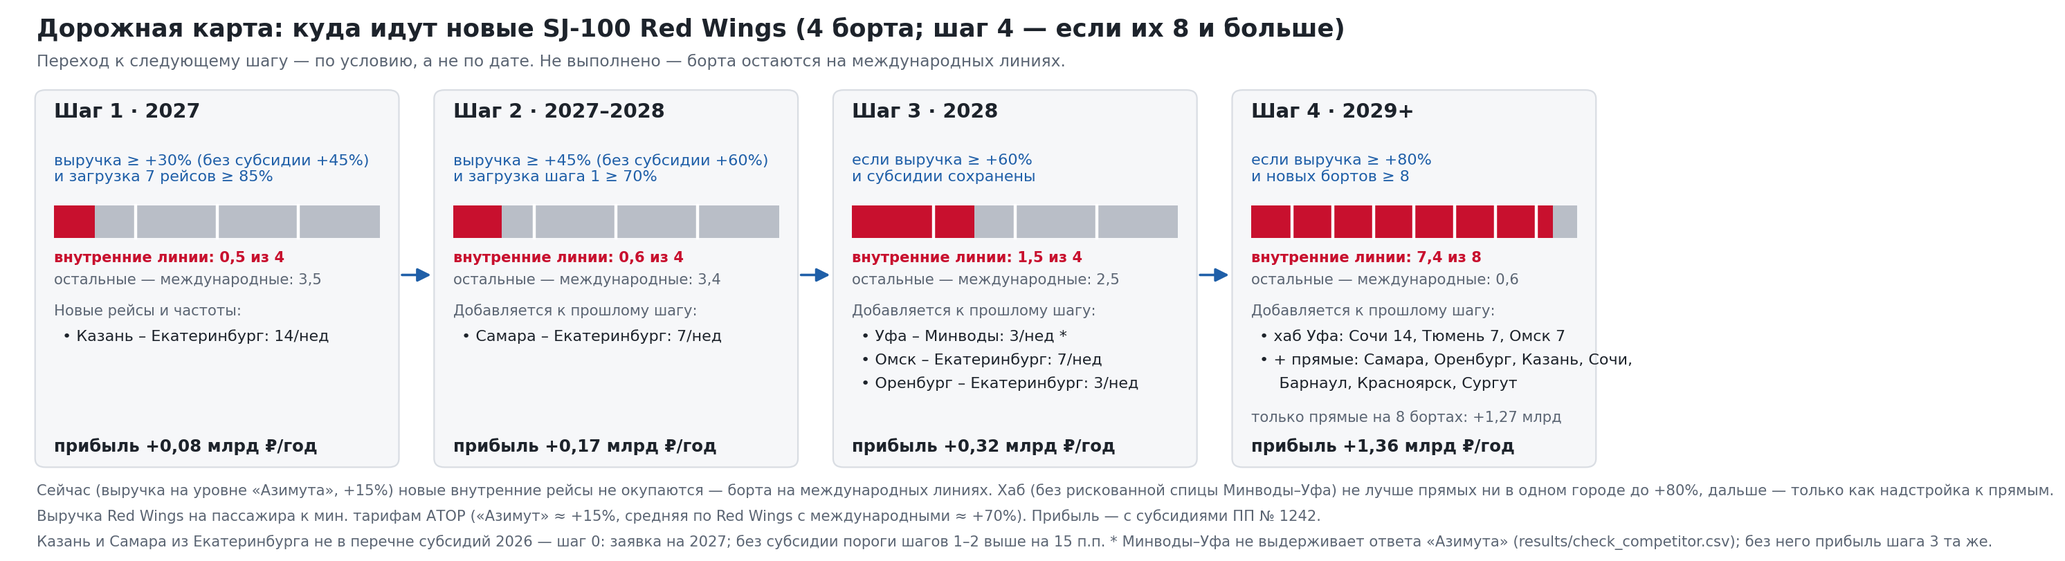
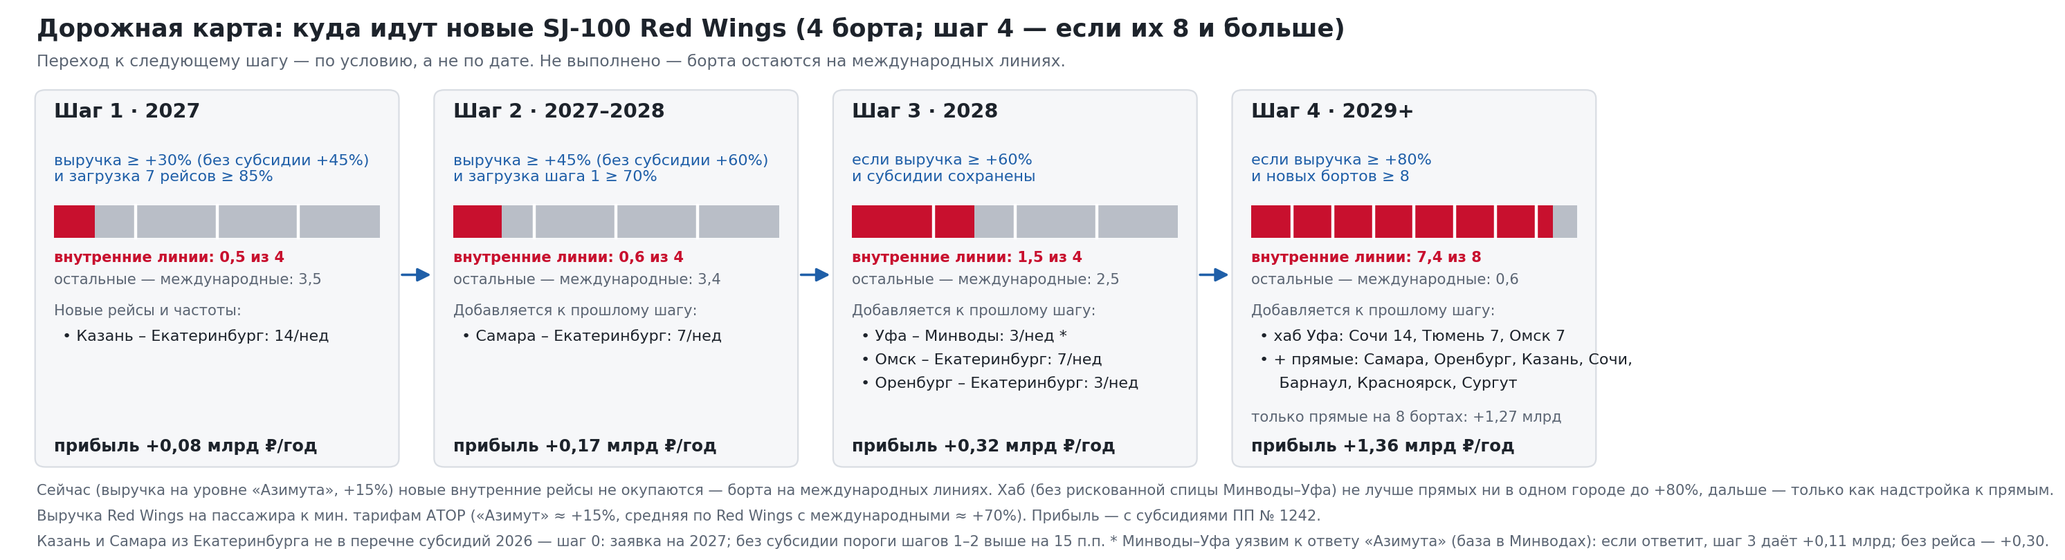
docs, calculator: Минводы–Уфа уязвим к ответу «Азимута» (цифры стресс-проверки вместо «не выдерживает»), пометка рейса и ML-фильтр в калькуляторе

diff --git a/docs/calculator.html b/docs/calculator.html
@@ -177,7 +177,7 @@ svg text{font-family:var(--font)}
   </div>
 
   <footer>
-    Расчёт: гравитационная модель спроса по табло 40 аэропортов (все перевозчики) + логит-модель выбора пассажира + жадный алгоритм размещения бортов по прибыли на блок-час; учтены загрузка, перегоны, база хаба (118 млн ₽/год), фактические закрытия аэропорта хаба, субсидии; спрос на парах без рейсов ×0,3 (по трём неудачным запускам 2021–2023). Тариф пар короче 550 км — 0,6 от формулы (по 55 реальным ценам на 43 маршрутах). Гибрид — хаб в Уфе плюс прямые рейсы из Екатеринбурга и других городов. Модель передаёт порядок величины (корреляция с фактом 0,51), поэтому сравнивайте варианты и пороги, а не точное число пассажиров. Контуры стран — Natural Earth. Код и данные: <a href="https://github.com/AndreyV105105105/Puhososy" target="_blank" rel="noopener">github.com/AndreyV105105105/Puhososy</a>.
+    Расчёт: гравитационная модель спроса по табло 40 аэропортов (все перевозчики) + логит-модель выбора пассажира + жадный алгоритм размещения бортов по прибыли на блок-час; учтены загрузка, перегоны, база хаба (118 млн ₽/год), фактические закрытия аэропорта хаба, субсидии; спрос на парах без рейсов ×0,3 (по трём неудачным запускам 2021–2023). Тариф пар короче 550 км — 0,6 от формулы (по 55 реальным ценам на 43 маршрутах). Гибрид — хаб в Уфе плюс прямые рейсы из Екатеринбурга и других городов. Новые пары без рейсов открываются, только если ML-модель жизнеспособности (бустинг на 780 парах, проверка по городам) даёт вероятность от 0,5. Рейс Минводы–Уфа уязвим к ответу «Азимута», базового перевозчика Минвод: если он ответит тем же числом рейсов, прибыль при +60% падает с 0,32 до 0,11 млрд ₽, без этого рейса — 0,30; гибрид на 8+ бортах при +60% выигрывает у прямых только за счёт этой спицы. Модель передаёт порядок величины (корреляция с фактом 0,51), поэтому сравнивайте варианты и пороги, а не точное число пассажиров. Контуры стран — Natural Earth. Код и данные: <a href="https://github.com/AndreyV105105105/Puhososy" target="_blank" rel="noopener">github.com/AndreyV105105105/Puhososy</a>.
   </footer>
 </div>
 
@@ -365,7 +365,7 @@ function render(){
 
   const legs = [...res.new_legs].sort((a, b) => b.pax - a.pax);
   $("legs").innerHTML = legs.length ? `<table><thead><tr><th>Маршрут</th><th style="text-align:right">Рейсов в неделю</th><th style="text-align:right">Пасс. в год</th></tr></thead><tbody>` +
-    legs.map((l, k) => `<tr><td><span class="num" style="background:${red(k)}">${k+1}</span>${A[l.i].name} – ${A[l.j].name}${l.f0 === 0 ? '<span class="tag">новый</span>' : ""}</td><td class="n">${l.f0 ? nf(l.f0, l.f0 % 1 ? 1 : 0) + " → " : "0 → "}${l.f}</td><td class="n">${Math.round(l.pax/1000)} тыс.</td></tr>`).join("") + "</tbody></table>"
+    legs.map((l, k) => `<tr><td><span class="num" style="background:${red(k)}">${k+1}</span>${A[l.i].name} – ${A[l.j].name}${l.f0 === 0 ? '<span class="tag">новый</span>' : ""}${l.i === "MRV" && l.j === "UFA" ? '<span class="tag" title="Минводы — база «Азимута», он уже летает этот рейс 4 раза в неделю. Если ответит тем же числом рейсов, прибыль сети при +60% падает с 0,32 до 0,11 млрд ₽; без этого рейса — 0,30">уязвим к ответу «Азимута»</span>' : ""}</td><td class="n">${l.f0 ? nf(l.f0, l.f0 % 1 ? 1 : 0) + " → " : "0 → "}${l.f}</td><td class="n">${Math.round(l.pax/1000)} тыс.</td></tr>`).join("") + "</tbody></table>"
     : `<p class="empty">Ни один новый рейс не окупается — при этих условиях борта выгоднее оставить на международных линиях.</p>`;
 
   const name = MODE_NAMES[state.mode];

diff --git a/docs/calculator_template.html b/docs/calculator_template.html
@@ -169,7 +169,7 @@ svg text{font-family:var(--font)}
   </div>
 
   <footer>
-    Расчёт: гравитационная модель спроса по табло 40 аэропортов (все перевозчики) + логит-модель выбора пассажира + жадный алгоритм размещения бортов по прибыли на блок-час; учтены загрузка, перегоны, база хаба (118 млн ₽/год), фактические закрытия аэропорта хаба, субсидии; спрос на парах без рейсов ×0,3 (по трём неудачным запускам 2021–2023). Тариф пар короче 550 км — 0,6 от формулы (по 55 реальным ценам на 43 маршрутах). Гибрид — хаб в Уфе плюс прямые рейсы из Екатеринбурга и других городов. Модель передаёт порядок величины (корреляция с фактом 0,51), поэтому сравнивайте варианты и пороги, а не точное число пассажиров. Контуры стран — Natural Earth. Код и данные: <a href="https://github.com/AndreyV105105105/Puhososy" target="_blank" rel="noopener">github.com/AndreyV105105105/Puhososy</a>.
+    Расчёт: гравитационная модель спроса по табло 40 аэропортов (все перевозчики) + логит-модель выбора пассажира + жадный алгоритм размещения бортов по прибыли на блок-час; учтены загрузка, перегоны, база хаба (118 млн ₽/год), фактические закрытия аэропорта хаба, субсидии; спрос на парах без рейсов ×0,3 (по трём неудачным запускам 2021–2023). Тариф пар короче 550 км — 0,6 от формулы (по 55 реальным ценам на 43 маршрутах). Гибрид — хаб в Уфе плюс прямые рейсы из Екатеринбурга и других городов. Новые пары без рейсов открываются, только если ML-модель жизнеспособности (бустинг на 780 парах, проверка по городам) даёт вероятность от 0,5. Рейс Минводы–Уфа уязвим к ответу «Азимута», базового перевозчика Минвод: если он ответит тем же числом рейсов, прибыль при +60% падает с 0,32 до 0,11 млрд ₽, без этого рейса — 0,30; гибрид на 8+ бортах при +60% выигрывает у прямых только за счёт этой спицы. Модель передаёт порядок величины (корреляция с фактом 0,51), поэтому сравнивайте варианты и пороги, а не точное число пассажиров. Контуры стран — Natural Earth. Код и данные: <a href="https://github.com/AndreyV105105105/Puhososy" target="_blank" rel="noopener">github.com/AndreyV105105105/Puhososy</a>.
   </footer>
 </div>
 
@@ -357,7 +357,7 @@ function render(){
 
   const legs = [...res.new_legs].sort((a, b) => b.pax - a.pax);
   $("legs").innerHTML = legs.length ? `<table><thead><tr><th>Маршрут</th><th style="text-align:right">Рейсов в неделю</th><th style="text-align:right">Пасс. в год</th></tr></thead><tbody>` +
-    legs.map((l, k) => `<tr><td><span class="num" style="background:${red(k)}">${k+1}</span>${A[l.i].name} – ${A[l.j].name}${l.f0 === 0 ? '<span class="tag">новый</span>' : ""}</td><td class="n">${l.f0 ? nf(l.f0, l.f0 % 1 ? 1 : 0) + " → " : "0 → "}${l.f}</td><td class="n">${Math.round(l.pax/1000)} тыс.</td></tr>`).join("") + "</tbody></table>"
+    legs.map((l, k) => `<tr><td><span class="num" style="background:${red(k)}">${k+1}</span>${A[l.i].name} – ${A[l.j].name}${l.f0 === 0 ? '<span class="tag">новый</span>' : ""}${l.i === "MRV" && l.j === "UFA" ? '<span class="tag" title="Минводы — база «Азимута», он уже летает этот рейс 4 раза в неделю. Если ответит тем же числом рейсов, прибыль сети при +60% падает с 0,32 до 0,11 млрд ₽; без этого рейса — 0,30">уязвим к ответу «Азимута»</span>' : ""}</td><td class="n">${l.f0 ? nf(l.f0, l.f0 % 1 ? 1 : 0) + " → " : "0 → "}${l.f}</td><td class="n">${Math.round(l.pax/1000)} тыс.</td></tr>`).join("") + "</tbody></table>"
     : `<p class="empty">Ни один новый рейс не окупается — при этих условиях борта выгоднее оставить на международных линиях.</p>`;
 
   const name = MODE_NAMES[state.mode];

diff --git a/model/step8_roadmap.py b/model/step8_roadmap.py
@@ -4,7 +4,7 @@
 Цифры берутся из расчёта порогов (results/thresholds_доходность.csv), поэтому после пересчёта
 картинка обновляется сама. Шаг 4 — сценарий большого флота (results/fleet_scenarios.csv, step7_fleet.py):
 если выручка от +80% и бортов 8 и больше, к сети из Екатеринбурга добавляется хаб в Уфе (гибрид) — без спицы
-Минводы–Уфа, которая не выдерживает ответа «Азимута» (results/check_competitor.csv).
+Минводы–Уфа, уязвимой к ответу «Азимута» (results/check_competitor.csv).
 
 Запуск: python model/step8_roadmap.py   (после step7_thresholds.py доходность и step7_fleet.py)
 Выход:  results/roadmap.png
@@ -59,7 +59,7 @@ def ru(x, nd=1):
 
 BIG_FLEET, BIG_FARE = 8, 1.8
 BIG_VARIANT = "гибрид в Уфе без Минвод"
-RISKY = {("MRV", "UFA"), ("UFA", "MRV")}   # не выдерживает ответа «Азимута»
+RISKY = {("MRV", "UFA"), ("UFA", "MRV")}   # уязвим к ответу «Азимута», базового перевозчика Минвод
 
 
 def big_fleet_step():
@@ -143,7 +143,7 @@ def main():
     ax.text(0.3, 0.25, "Выручка Red Wings на пассажира к мин. тарифам АТОР («Азимут» ≈ +15%, средняя по Red Wings с международными ≈ +70%). "
             "Прибыль — с субсидиями ПП № 1242.", fontsize=9.5, color=MUTED)
     ax.text(0.3, -0.1, "Казань и Самара из Екатеринбурга не в перечне субсидий 2026 — шаг 0: заявка на 2027; без субсидии пороги шагов 1–2 выше на 15 п.п. "
-            "* Минводы–Уфа не выдерживает ответа «Азимута» (results/check_competitor.csv); без него прибыль шага 3 та же.", fontsize=9.5, color=MUTED)
+            "* Минводы–Уфа уязвим к ответу «Азимута» (база в Минводах): если ответит, шаг 3 даёт +0,11 млрд; без рейса — +0,30.", fontsize=9.5, color=MUTED)
     out = RESULTS / "roadmap.png"
     fig.savefig(out, bbox_inches="tight", facecolor="white"); plt.close(fig)
     print(f"Дорожная карта: {out.relative_to(RESULTS.parent)}")

diff --git a/model/step7_fleet.py b/model/step7_fleet.py
@@ -24,7 +24,7 @@ from step7_hub_city import hub_mix
 FLEETS = [2, 4, 8, 14, 21]
 FARES = [1.3, 1.45, 1.6, 1.8, 2.0]
 DEFAULT_HUB = P["hub_city"]
-# (вариант, город хаба, спицы, которые запрещены). Минводы–Уфа не выдерживает ответа «Азимута»
+# (вариант, город хаба, спицы, которые запрещены). Минводы–Уфа уязвима к ответу «Азимута» (база в Минводах)
 # (results/check_competitor.csv), поэтому гибрид считаем и без этой спицы.
 VARIANTS = [("прямые", DEFAULT_HUB, []), ("хаб", "UFA", []), ("хаб", "KZN", []), ("гибрид", "UFA", []),
             ("гибрид", "UFA", ["MRV"])]

diff --git a/docs/passport_short.md b/docs/passport_short.md
@@ -48,7 +48,7 @@
 **Шаг 2. Выручка ≥ +45% с субсидией или ≥ +60% без неё, загрузка шага 1 ≥ 70% два сезона** (по модели безубыточность Казань–Екатеринбург — 66% при +30% с субсидией и 75% без неё; прогноз модели — 77%)**:** + Самара–Екатеринбург до 7 (0,6 борта).
 **Шаг 3. Выручка ≥ +60%, субсидии сохранены:** Омск до 7, Оренбург до 3 (1,5 борта); Уфа–Минводы — только если «Азимут» не отвечает.
 **Параллельно — сервисы:** 2026–2027 — приложение и продажа пакетов; с шагом 1 — пересадки через Кольцово и корпоративные продажи; с шагом 2 — программа лояльности.
-**Шаг 4. Если выручка ≥ +80% и новых SJ-100 от 8:** к сети из Екатеринбурга добавляется хаб в Уфе как надстройка — спицы Сочи ×14, Тюмень ×7, Омск ×7, около 46% пассажиров с пересадкой; 7,4 борта, +1,36 млрд ₽ против +1,27 у одних прямых на тех же 8 бортах (прибавка около +0,09 млрд, при 4 бортах — около +0,08). Спицу Минводы–Уфа в расчёт не берём: она не выдерживает ответа «Азимута». С ней хаб был бы выгоден уже при +60% (+0,54 против +0,47), без неё при +60% хаб не открывается. Это последний шаг и только при свободных бортах.
+**Шаг 4. Если выручка ≥ +80% и новых SJ-100 от 8:** к сети из Екатеринбурга добавляется хаб в Уфе как надстройка — спицы Сочи ×14, Тюмень ×7, Омск ×7, около 46% пассажиров с пересадкой; 7,4 борта, +1,36 млрд ₽ против +1,27 у одних прямых на тех же 8 бортах (прибавка около +0,09 млрд, при 4 бортах — около +0,08). Спицу Минводы–Уфа в расчёт не берём: она уязвима к ответу «Азимута», базового перевозчика Минвод, который уже летает её 4 раза в неделю. С ней хаб был бы выгоден уже при +60% (+0,54 против +0,47), без неё при +60% хаб не открывается. Это последний шаг и только при свободных бортах.
 **Новый хаб не открываем:** ни один проверенный город не окупается до +60% отдельно; при выручке от +80% — только надстройка к прямым (шаг 4). Условие не выполнено — борта остаются там, где зарабатывают больше: решение обратимо.
 
 ## 8. Вопросы экспертам
@@ -123,7 +123,7 @@
 ## Приложение 2. Дорожная карта и целевая сеть 2028
 *(картинки `results/roadmap.png` и `results/map_цель2028_базовый.png`)*
 
-Целевая сеть 2028 (выручка +60%, 1,5 новых борта, +0,32 млрд ₽, +118 тыс. пассажиров): Казань – Екатеринбург 7 → 14 рейсов в неделю, Омск 2 → 7, Самара 6,5 → 7, Оренбург 2 → 3, новый Уфа – Минводы 3 (не выдерживает ответа «Азимута»); плюс 16 действующих маршрутов Red Wings без изменений. Из 21 маршрута 13 есть в перечне субсидий 2026 года (`results/target_network_2028.csv`); Казань и Самара из Екатеринбурга — нет.
+Целевая сеть 2028 (выручка +60%, 1,5 новых борта, +0,32 млрд ₽, +118 тыс. пассажиров): Казань – Екатеринбург 7 → 14 рейсов в неделю, Омск 2 → 7, Самара 6,5 → 7, Оренбург 2 → 3, новый Уфа – Минводы 3 (уязвим к ответу «Азимута», базового перевозчика Минвод); плюс 16 действующих маршрутов Red Wings без изменений. Из 21 маршрута 13 есть в перечне субсидий 2026 года (`results/target_network_2028.csv`); Казань и Самара из Екатеринбурга — нет.
 
 ## Приложение 3. Лонглист и рейтинг городов
 15 городов-кандидатов, 9 критериев, нормировка 0–1. Веса: удалённость от Екатеринбурга (чтобы не делить поток с Кольцово) — 0,20; свободный рынок (нет доминирующего перевозчика) — 0,15; вне «тени» Москвы (дальше 600 км) — 0,15; пассажиры, летающие сейчас через Москву, которых может перехватить хаб — 0,15; пассажиропоток аэропорта — 0,10; население — 0,10; присутствие Red Wings — 0,05; туризм — 0,05; возможности аэропорта — 0,05. Устойчивость: каждый вес ±30% — Самара остаётся первой во всех проверках.

diff --git a/docs/passport_final.md b/docs/passport_final.md
@@ -104,7 +104,7 @@
 
 **Устойчивость (+45%):** прямые уходят в минус только при выручке «Азимута»; при тарифе коротких пар 0,5 и 0,7 — +0,14 и +0,18 млрд ₽; перенос границы коротких рейсов на 450 и 700 км состав сети при +30% и +45% не меняет.
 
-**Целевая сеть 2028.** Целевая сеть 2028 (выручка +60%, 1,5 новых борта, +0,32 млрд ₽, +118 тыс. пассажиров): Казань – Екатеринбург 7 → 14 рейсов в неделю, Омск 2 → 7, Самара 6,5 → 7, Оренбург 2 → 3, новый Уфа – Минводы 3 (не выдерживает ответа «Азимута»); плюс 16 действующих маршрутов Red Wings без изменений. Из 21 маршрута 13 есть в перечне субсидий 2026 года (`results/target_network_2028.csv`); Казань и Самара из Екатеринбурга — нет.
+**Целевая сеть 2028.** Целевая сеть 2028 (выручка +60%, 1,5 новых борта, +0,32 млрд ₽, +118 тыс. пассажиров): Казань – Екатеринбург 7 → 14 рейсов в неделю, Омск 2 → 7, Самара 6,5 → 7, Оренбург 2 → 3, новый Уфа – Минводы 3 (уязвим к ответу «Азимута», базового перевозчика Минвод); плюс 16 действующих маршрутов Red Wings без изменений. Из 21 маршрута 13 есть в перечне субсидий 2026 года (`results/target_network_2028.csv`); Казань и Самара из Екатеринбурга — нет.
 
 Полная таблица с источником для каждого маршрута — `results/target_network_2028.csv`, `results/routes_table.csv`.
 
@@ -150,7 +150,7 @@
 **Шаг 2. Выручка ≥ +45% с субсидией или ≥ +60% без неё, загрузка шага 1 ≥ 70% два сезона** (по модели безубыточность Казань–Екатеринбург — 66% при +30% с субсидией и 75% без неё; прогноз модели — 77%)**:** + Самара–Екатеринбург до 7 (0,6 борта).
 **Шаг 3. Выручка ≥ +60%, субсидии сохранены:** Омск до 7, Оренбург до 3 (1,5 борта); Уфа–Минводы — только если «Азимут» не отвечает.
 **Параллельно — сервисы:** 2026–2027 — приложение и продажа пакетов (готовят шаг 1); вместе с шагом 1 — пересадки через Кольцово и корпоративные продажи; вместе с шагом 2 — программа лояльности.
-**Шаг 4. Если выручка ≥ +80% и новых SJ-100 от 8:** к сети из Екатеринбурга добавляется хаб в Уфе как надстройка — спицы Сочи ×14, Тюмень ×7, Омск ×7, около 46% пассажиров с пересадкой; 7,4 борта, +1,36 млрд ₽ против +1,27 у одних прямых на тех же 8 бортах (прибавка около +0,09 млрд, при 4 бортах — около +0,08). Спицу Минводы–Уфа в расчёт не берём: она не выдерживает ответа «Азимута». С ней хаб был бы выгоден уже при +60% (+0,54 против +0,47), без неё при +60% хаб не открывается. Это последний шаг и только при свободных бортах.
+**Шаг 4. Если выручка ≥ +80% и новых SJ-100 от 8:** к сети из Екатеринбурга добавляется хаб в Уфе как надстройка — спицы Сочи ×14, Тюмень ×7, Омск ×7, около 46% пассажиров с пересадкой; 7,4 борта, +1,36 млрд ₽ против +1,27 у одних прямых на тех же 8 бортах (прибавка около +0,09 млрд, при 4 бортах — около +0,08). Спицу Минводы–Уфа в расчёт не берём: она уязвима к ответу «Азимута», базового перевозчика Минвод, который уже летает её 4 раза в неделю. С ней хаб был бы выгоден уже при +60% (+0,54 против +0,47), без неё при +60% хаб не открывается. Это последний шаг и только при свободных бортах.
 **Новый хаб не открываем:** ни один проверенный город не окупается до +60% отдельно; при выручке от +80% — только надстройка к прямым (шаг 4). Условие не выполнено — борта остаются там, где зарабатывают больше: решение обратимо.
 
 ## 10. Вопросы экспертам

diff --git a/docs/qa_cheatsheet.md b/docs/qa_cheatsheet.md
@@ -20,13 +20,13 @@
 Посчитали 2, 4, 8, 14 и 21 (половина из 42). До +45% ничего не меняется: даже из 21 борта окупается полборта. При часе 600 тыс. ₽ внутренние рейсы между нашими городами занимают не больше 5 бортов при +60% и 7 при +80%; остальные SJ-100 — на замену старых SSJ-100, Москву и международные линии. В калькуляторе есть кнопки 2 / 4 / 8 / 14 и пресет «Максимум бортов». *Где:* `research/fleet_scenarios.md`, `results/fleet_scenarios.csv`.
 
 **4б. Так хаб всё-таки нужен?**
-Отдельно — нет: хаб в Уфе или Казани не лучше прямых ни при каком флоте и выручке. Как надстройка — только при выручке от +80%: к сети из Екатеринбурга добавляются спицы из Уфы (Сочи, Тюмень, Омск), +1,36 млрд против +1,27 у одних прямых на 8 бортах — прибавка около +0,09. Это шаг 4. Со спицей Минводы–Уфа хаб был бы выгоден уже при +60%, но этот рейс не выдерживает ответа «Азимута», поэтому его не считаем. Ответ на вопрос кейса: хаб эффективнее прямых только при очень высокой выручке и только вместе с ними.
+Отдельно — нет: хаб в Уфе или Казани не лучше прямых ни при каком флоте и выручке. Как надстройка — только при выручке от +80%: к сети из Екатеринбурга добавляются спицы из Уфы (Сочи, Тюмень, Омск), +1,36 млрд против +1,27 у одних прямых на 8 бортах — прибавка около +0,09. Это шаг 4. Со спицей Минводы–Уфа хаб был бы выгоден уже при +60%, но этот рейс уязвим к ответу «Азимута», базового перевозчика Минвод, поэтому его не считаем. Ответ на вопрос кейса: хаб эффективнее прямых только при очень высокой выручке и только вместе с ними.
 
 **4в. Почему база +15%, если средняя выручка Red Wings на пассажира около +70%?**
 +70% — средняя по всей Red Wings вместе с международными рейсами: они длиннее и дороже. На внутренних региональных рейсах на SSJ-100 ближайший ориентир — «Азимут» с отчётностью по РСБУ: около +15% к минимальным тарифам. Поэтому новые внутренние рейсы считаем от +15%, а не от средней по компании. Это и объясняет, почему борта сейчас выгоднее держать на международных линиях.
 
-**4г. Шаг 3 без Минвод–Уфы?**
-Прибыль та же, около +0,32 млрд: алгоритм заменяет этот рейс другими (Сургут, Барнаул, Сочи–Самара). Поэтому на дорожной карте рейс помечен звёздочкой: «если „Азимут“ не ответит».
+**4г. Откуда вы знаете, что «Азимут» ответит на Минводы–Уфа? И шаг 3 без этого рейса?**
+Не знаем — это наша стресс-проверка, а не факт. Факт: Минводы — база «Азимута», и он уже летает Минводы–Уфа 4 раза в неделю (табло 10–16.11). Модель: если «Азимут» добавит столько же рейсов, сколько мы (+3 в неделю), а Red Wings продолжит летать, прибыль шага 3 упадёт с 0,32 до 0,11 млрд; если этот рейс просто не открывать — только до 0,30. Ответ Utair на Самара–Екатеринбург почти ничего не меняет (0,31). Риск несоразмерен выгоде, поэтому рейс помечен звёздочкой «если „Азимут“ не ответит». *Где:* `results/check_competitor.csv`.
 
 ## Шаг 1 (Казань–Екатеринбург)
 

diff --git a/research/fleet_scenarios.md b/research/fleet_scenarios.md
@@ -36,9 +36,9 @@
 
 1. **До +45% число бортов ничего не решает.** Окупается 0,5–0,6 борта, даже если дать 21. Ограничение — выручка с пассажира, а не самолёты.
 2. **Сколько бортов внутренние рейсы между нашими городами вообще могут занять** (час 600 тыс. ₽): около 5 при +60%, 5–7 при +80%, 11–13 при +100%. Все 21 не нужны ни при какой выручке. Исключение — дешёвый час: при 450 тыс. ₽ и выручке +75% гибрид занимает все 14 бортов (+5,4 млрд, сетка калькулятора). Остальные SJ-100 — на другие задачи: замена старых SSJ-100, рейсы в Москву, международные.
-3. **Хаб в Уфе появляется как надстройка к прямым рейсам из Екатеринбурга только при высокой выручке.** Со спицей Минводы–Уфа — с +60% и 8 бортов (+0,54 против +0,47 у прямых). Но эта спица не выдерживает ответа «Азимута» (`results/check_competitor.csv`). Без неё (вариант «гибрид в Уфе без Минвод») при +60% хаб не открывается (+0,455 против +0,468), а с +80% даёт спицы Сочи ×14, Тюмень ×7, Омск ×7, около 46% стыковочных: +1,36 против +1,27 на 8 бортах (+0,09), +0,94 против +0,86 на 4 бортах, при +100% на 14 бортах +2,81 против +2,43.
+3. **Хаб в Уфе появляется как надстройка к прямым рейсам из Екатеринбурга только при высокой выручке.** Со спицей Минводы–Уфа — с +60% и 8 бортов (+0,54 против +0,47 у прямых). Но эта спица уязвима к ответу «Азимута», базового перевозчика Минвод, который уже летает её 4 раза в неделю: если он добавит столько же рейсов, прибыль даже шага 3 падает с 0,32 до 0,11 млрд (`results/check_competitor.csv`). Без неё (вариант «гибрид в Уфе без Минвод») при +60% хаб не открывается (+0,455 против +0,468), а с +80% даёт спицы Сочи ×14, Тюмень ×7, Омск ×7, около 46% стыковочных: +1,36 против +1,27 на 8 бортах (+0,09), +0,94 против +0,86 на 4 бортах, при +100% на 14 бортах +2,81 против +2,43.
 4. **Цена надстройки — больше бортов на рубль прибыли.** При +80% на 8 бортах надстройка берёт 2 борта сверху и даёт +0,09 млрд — около 0,04 млрд на борт против 0,24 у прямых. Если бортам есть другое применение, прямые лучше.
-5. **Риск:** при +60% выгода хаба целиком держится на спице Минводы–Уфа, которую «Азимут» может отбить. Поэтому шаг 4 ставим только с +80% и считаем без неё.
+5. **Риск:** при +60% выгода хаба целиком держится на спице Минводы–Уфа, уязвимой к ответу «Азимута». Поэтому шаг 4 ставим только с +80% и считаем без неё.
 
 ## Что это значит для дорожной карты
 

diff --git a/docs/presentation_brief.md b/docs/presentation_brief.md
@@ -36,7 +36,7 @@
 | 1 | выручка от +30% с субсидией (от +45% без неё) и загрузка нынешних 7 рейсов от 85% | Казань–Екатеринбург 7 → 14 рейсов в неделю (Red Wings единственный перевозчик) | +0,08 млрд ₽ |
 | 2 | от +45% с субсидией (от +60% без неё), загрузка шага 1 от 70% | + Самара–Екатеринбург до 7 | +0,17 млрд ₽ |
 | 3 | от +60%, субсидии сохранены | + Омск до 7, Оренбург до 3 | +0,32 млрд ₽, 1,5 борта |
-| 4 | выручка от +80% и новых SJ-100 от 8 | + хаб в Уфе как надстройка: Сочи ×14, Тюмень ×7, Омск ×7 (без Минвод–Уфы: не выдерживает «Азимута») | +1,36 млрд ₽ (одни прямые на 8 бортах +1,27), 7,4 борта |
+| 4 | выручка от +80% и новых SJ-100 от 8 | + хаб в Уфе как надстройка: Сочи ×14, Тюмень ×7, Омск ×7 (без Минвод–Уфы: уязвим к ответу «Азимута») | +1,36 млрд ₽ (одни прямые на 8 бортах +1,27), 7,4 борта |
 
 Картинку `results/roadmap.png` обновить: на ней появился шаг 4.
 
